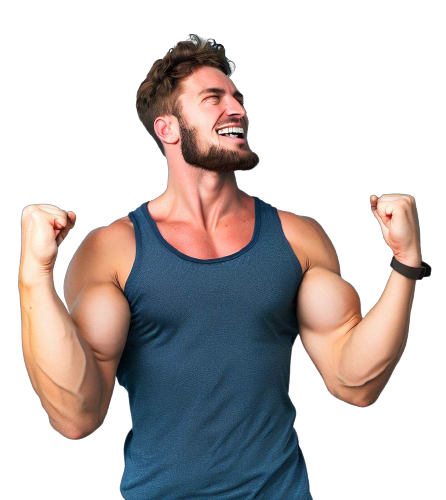
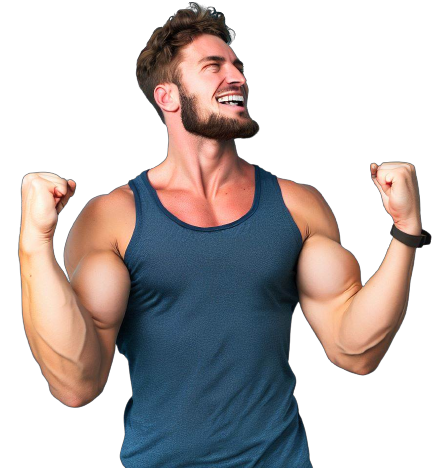
benefits section completed

diff --git a/src/sections/home/Home.tsx b/src/sections/home/Home.tsx
@@ -11,68 +11,72 @@ type Props = {
 
 const Home = ({ setSelectedPage }: Props) => {
     return (
-        <motion.section
+        <section
             id='home'
-            onViewportEnter={() => setSelectedPage(SelectedPage.Home)}
-            className='bg-gray-20 pt-20 pb-12 px-3 flex flex-col justify-center items-center gap-10 sm:mt-15 sm:flex-row  sm:gap-0 sm:max-w-3/4'>
-
-            {/* Main header */}
+            className='bg-gray-20 w-full mt-14 py-10 flex items-center h-full'>
+           
             <motion.div
-            initial="hidden"
-            whileInView="visible"
-            viewport={{ once: true, amount: 0.8 }}
-            transition={{ duration: 0.9 }}
-            variants={{
-                hidden: { opacity: 0, x: -100 },
-                visible: { opacity: 1, x: 0 }
-            }}
-            className='flex flex-col sm:flex-row  sm:items-center sm:justify-center  '>
-
-                <div className='flex flex-col gap-7 items-center'>
-
-                    <div className='flex flex-col text-center text-primary-100 gap-2'>
-                        <h1 className='text-4xl font-bold tracking-wider text-justify  sm:text-5xl sm:tracking-normal ' >Olympus Gym</h1>
-                        <h5 className='text-2xl tracking-wider text-justify sm:text-3xl sm:tracking-wide '>military fitness center</h5>
-                    </div>
+                onViewportEnter={() => setSelectedPage(SelectedPage.Home)}
+                className='mx-auto w-5/6 gap-8 flex flex-col items-center justify-center sm:flex-row sm:h-5/6'>
 
 
-                    <div className='flex flex-col gap-7 text-justify max-w-[17rem] sm:max-w-[21rem]'>
-                        <div className='text-primary-100 text-base text-justify tracking-wider'>
-                            <p>reach your full physical potential with military workouts and classes for all fitness levels</p>
+                {/* Main header */}
+                <motion.div
+                    initial="hidden"
+                    whileInView="visible"
+                    viewport={{ once: true, amount: 0.5 }}
+                    transition={{ duration: 0.5 }}
+                    variants={{
+                        hidden: { opacity: 0, x: -100 },
+                        visible: { opacity: 1, x: 0 },
+                    }}
+                    className='flex flex-col sm:flex-row sm:items-center sm:justify-center  '>
+
+                    <div className='flex flex-col gap-7 items-center'>
+
+                        <div className='flex flex-col text-center text-primary-100 gap-2'>
+                            <h1 className='text-4xl font-bold tracking-wider text-justify  sm:text-5xl sm:tracking-normal ' >Olympus Gym</h1>
+                            <h5 className='text-2xl tracking-wider text-justify sm:text-3xl sm:tracking-wide '>military fitness center</h5>
                         </div>
 
-                        {/* Actions*/}
-                        <motion.div
-                         initial="hidden"
-                         whileInView="visible"
-                         viewport={{ once: true, amount: 0.8 }}
-                         transition={{ delay: 0.3,  duration: 0.9 }}
-                         variants={{
-                             hidden: { opacity: 0, x: -100 },
-                             visible: { opacity: 1, x: 0 }
-                         }}
-                        className='flex items-center justify-center gap-7'>
-                            <ActionButton setSelectedPage={setSelectedPage}>
-                                Join Now
-                            </ActionButton>
-                            <AnchorLink
-                                className='text-sm font-bold text-primary-500 underline hover:text-secondary-500'
-                                onClick={() => setSelectedPage(SelectedPage.ContactUs)}
-                                href={`#${SelectedPage.ContactUs}`}>
-                                <p>Learn More</p>
-                            </AnchorLink>
-                        </motion.div>
-                    </div>
 
+                        <div className='flex flex-col gap-7 text-justify max-w-[17rem] sm:max-w-[21rem]'>
+                            <div className='text-primary-100 text-base text-justify tracking-wider'>
+                                <p>reach your full physical potential with military workouts and classes for all fitness levels</p>
+                            </div>
+
+                            {/* Actions*/}
+                            <motion.div
+                                initial="hidden"
+                                whileInView="visible"
+                                viewport={{ once: true, amount: 0.5 }}
+                                transition={{ delay: 0.2, duration: 0.7 }}
+                                variants={{
+                                    hidden: { opacity: 0, x: -100 },
+                                    visible: { opacity: 1, x: 0 }
+                                }}
+                                className='flex items-center justify-center gap-7'>
+                                <ActionButton setSelectedPage={setSelectedPage}>
+                                    Join Now
+                                </ActionButton>
+                                <AnchorLink
+                                    className='text-sm font-bold text-primary-500 underline hover:text-secondary-500'
+                                    onClick={() => setSelectedPage(SelectedPage.ContactUs)}
+                                    href={`#${SelectedPage.ContactUs}`}>
+                                    <p>Learn More</p>
+                                </AnchorLink>
+                            </motion.div>
+                        </div>
+
+                    </div>
+                </motion.div>
+
+                {/* Main Image */}
+                <div className=''>
+                    <img className='w-full h-full object-cover' alt='home-page-image' src={HomePageImage} />
                 </div>
             </motion.div>
-
-            {/* Main Image */}
-            <div className=''>
-                <img className='w-full h-full object-cover' alt='home-page-image' src={HomePageImage} />
-            </div>
-
-        </motion.section>
+        </section>
     )
 }
 

diff --git a/src/sections/benefits/Benefits.tsx b/src/sections/benefits/Benefits.tsx
@@ -4,6 +4,8 @@ import { HomeModernIcon, UserGroupIcon,AcademicCapIcon } from '@heroicons/react/
 import {motion} from "framer-motion"
 import SectionTitle from '../../components/SectionTitle'
 import Benefit from '../../components/Benefit'
+import benefitImage from "../../assets/images/smiling.png"
+import ActionButton from '../../shared/ActionButton'
 
 const benefits:Array<BenefitType> = [
     {
@@ -24,12 +26,12 @@ const benefits:Array<BenefitType> = [
 
 ]
 
-const benefitContainer = {
+const container = {
     hidden: {},
     visible: {
-        transition: {staggerChildren: 0.2}
-    }
-}
+        transition: { staggerChildren: 0.2 },
+    },
+};
 
 type Props = {
     setSelectedPage: (value: SelectedPage) => void
@@ -37,46 +39,81 @@ type Props = {
 
 const Benefits = ({ setSelectedPage }: Props) => {
     return (
-        <motion.div
+        <section
             id='benefits'
-            onViewportEnter={() => setSelectedPage(SelectedPage.Benefits)}
-            className='bg-primary-100 py-12 px-3 flex flex-col justify-center items-center'>
+            className='bg-primary-100 min-h-full py-20 px-4'>
 
-
-            {/* Main header & description */}
             <motion.div
-            initial="hidden"
-            whileInView="visible"
-            viewport={{ once: true, amount: 0.5 }}
-            transition={{ duration: 0.9 }}
-            variants={{
-                hidden: { opacity: 0, x: -100 },
-                visible: { opacity: 1, x: 0 }
-            }}
-            className='max-w-xl'>
-                <SectionTitle>more than just a gym</SectionTitle>
-                <p className='text-justify my-5 text-sm '>Lorem ipsum dolor, sit amet consectetur adipisicing elit. Dignissimos possimus vitae quia et earum adipisci nam in quis amet sint dolores fuga expedita veritatis, at nihil! Quas aut alias a.</p>
+                onViewportEnter={() => setSelectedPage(SelectedPage.Benefits)}
+                className='w-5/6 mx-auto flex flex-col items-center'
+            >
+                {/* Main header & description */}
+                <motion.div
+                    initial="hidden"
+                    whileInView="visible"
+                    viewport={{ once: true, amount: 0.5 }}
+                    transition={{ duration: 0.5 }}
+                    variants={{
+                        hidden: { opacity: 0, x: -100 },
+                        visible: { opacity: 1, x: 0 },
+                    }}
+                    className='max-w-xl'>
+                    <SectionTitle>more than just a gym</SectionTitle>
+                    <p className='text-justify my-5 text-sm '>Lorem ipsum dolor, sit amet consectetur adipisicing elit. Dignissimos possimus vitae quia et earum adipisci nam in quis amet sint dolores fuga expedita veritatis, at nihil! Quas aut alias a.</p>
+                </motion.div>
+
+
+                {/* Benefits */}
+                <motion.div
+                    initial="hidden"
+                    whileInView="visible"
+                    viewport={{ once: true, amount: 0.3 }}
+                    variants={container}
+                    className='items-center justify-between gap-7 mt-5 sm:flex '>
+                    {benefits.map((benefit: BenefitType) => (
+                        <Benefit
+                            key={benefit.title}
+                            icon={benefit.icon}
+                            title={benefit.title}
+                            description={benefit.description}
+                            setSelectedPage={setSelectedPage}
+                        />
+                    ))}
+                </motion.div>
+
+                {/* Image & full description */}
+                <div className='mt-16 items-center justify-between flex flex-col gap-20 sm:gap-0 sm:flex-row'>
+                    
+                    {/* Image */}
+                    <img className='object-cover sm:w-1/2' src={benefitImage} />
+
+                    {/* Full description */}
+                    <motion.div 
+                     initial="hidden"
+                     whileInView="visible"
+                     viewport={{ once: true, amount: 0.5 }}
+                     transition={{ duration: 0.5 }}
+                     variants={{
+                         hidden: { opacity: 0, x: -100 },
+                         visible: { opacity: 1, x: 0 },
+                     }}
+                    className='sm:w-2/3 sm:pl-16'>
+                        <SectionTitle>members getting <span className='text-primary-500'>strong</span></SectionTitle>
+                        <div>
+                            <p className='my-5 text-justify'>Lorem ipsum dolor sit amet consectetur adipisicing elit. Deleniti nobis, provident quod expedita officia corporis iure placeat fugiat dolore. Dicta, rem. Recusandae ipsum sint, nemo numquam necessitatibus dolores porro quo.</p>
+                            <p className='mb-5 text-justify'>Lorem ipsum dolor sit amet consectetur adipisicing elit. Modi, sed excepturi quam aliquam et distinctio aliquid necessitatibus quae tempore tempora commodi placeat sit harum consequatur dolorem a asperiores recusandae officia.</p>
+                        </div>
+                        <div className='text-center mt-7'>
+                            <ActionButton setSelectedPage={setSelectedPage}>
+                                Join Now
+                            </ActionButton>
+                        </div>
+
+                    </motion.div>
+                </div>
+
             </motion.div>
-
-
-            {/* Benefits */}
-            <motion.div
-            className='items-center justify-between gap-7 mt-5 sm:flex '>
-                {benefits.map((benefit: BenefitType)=> (
-                    <Benefit
-                        key={benefit.title}
-                        icon={benefit.icon}
-                        title={benefit.title}
-                        description={benefit.description}
-                        setSelectedPage={setSelectedPage}
-                    />
-                ))}
-            </motion.div>
-
-            {/* Image & full description */}
-
-            
-        </motion.div>
+        </section>
     )
 }
 

diff --git a/src/components/Benefit.tsx b/src/components/Benefit.tsx
@@ -1,6 +1,12 @@
 import React from 'react'
 import { SelectedPage } from '../shared/types'
+import {motion} from "framer-motion"
 import AnchorLink from 'react-anchor-link-smooth-scroll'
+
+const childVariant = {
+    hidden: { opacity: 0, scale: 0.9 },
+    visible: { opacity: 1, scale: 1 },
+  };
 
 type Props = {
     icon: JSX.Element;
@@ -11,21 +17,23 @@ type Props = {
 
 const Benefit = ({ icon, title, description, setSelectedPage }: Props) => {
     return (
-        <div className='mt-5 rounded-md border-2 border-gray-30 px-5 py-16 text-center'>
+        <motion.div 
+        variants={childVariant}
+        className='mt-5 rounded-md border-2 border-gray-30 px-5 py-16 text-center'>
             <div className='mb-4 flex justify-center'>
                 <div className='rounded-full border-2 border-gray-30 bg-primary-100 p-4'>
                     {icon}
                 </div>
             </div>
             <h4 className='font-bold'>{title}</h4>
-            <p className='my-3'>{description}</p>
+            <p className='my-3 text-justify'>{description}</p>
             <AnchorLink
                 className='text-sm font-bold text-primary-500 underline hover:text-secondary-500'
                 onClick={() => setSelectedPage(SelectedPage.ContactUs)}
                 href={`#${SelectedPage.ContactUs}`}>
                 <p>Learn More</p>
             </AnchorLink>
-        </div>
+        </motion.div>
     )
 }
 

diff --git a/src/sections/ourclasses/OurClasses.tsx b/src/sections/ourclasses/OurClasses.tsx
@@ -52,11 +52,11 @@ const OurClasses = ({ setSelectedPage }: Props) => {
             <motion.div
                 initial="hidden"
                 whileInView="visible"
-                viewport={{ once: true, amount: 0.8 }}
-                transition={{ duration: 0.9 }}
+                viewport={{ once: true, amount: 0.5 }}
+                transition={{ duration: 0.5 }}
                 variants={{
                     hidden: { opacity: 0, x: -100 },
-                    visible: { opacity: 1, x: 0 }
+                    visible: { opacity: 1, x: 0 },
                 }}
                 className='mx-auto w-5/6 sm:my-5 sm:w-3/5'>
 

diff --git a/src/sections/navbar/Navbar.tsx b/src/sections/navbar/Navbar.tsx
@@ -19,7 +19,7 @@ const Navbar = ({isTopOfPage ,selectedPage, setSelectedPage }: Props) => {
     const navbarBackground = isTopOfPage ? "": "bg-primary-100 drop-shadow"
 
     return (
-        <nav className={`${navbarBackground} bg-gray-20 w-full p-2 sm:text-lg fixed top-0 z-50`}>
+        <nav className={`${navbarBackground} bg-gray-20 w-full p-2 sm:text-lg fixed top-0 z-30`}>
             <div className='items-center justify-between flex md:w-3/4 mx-auto'>
 
                 {/* Left side */}
